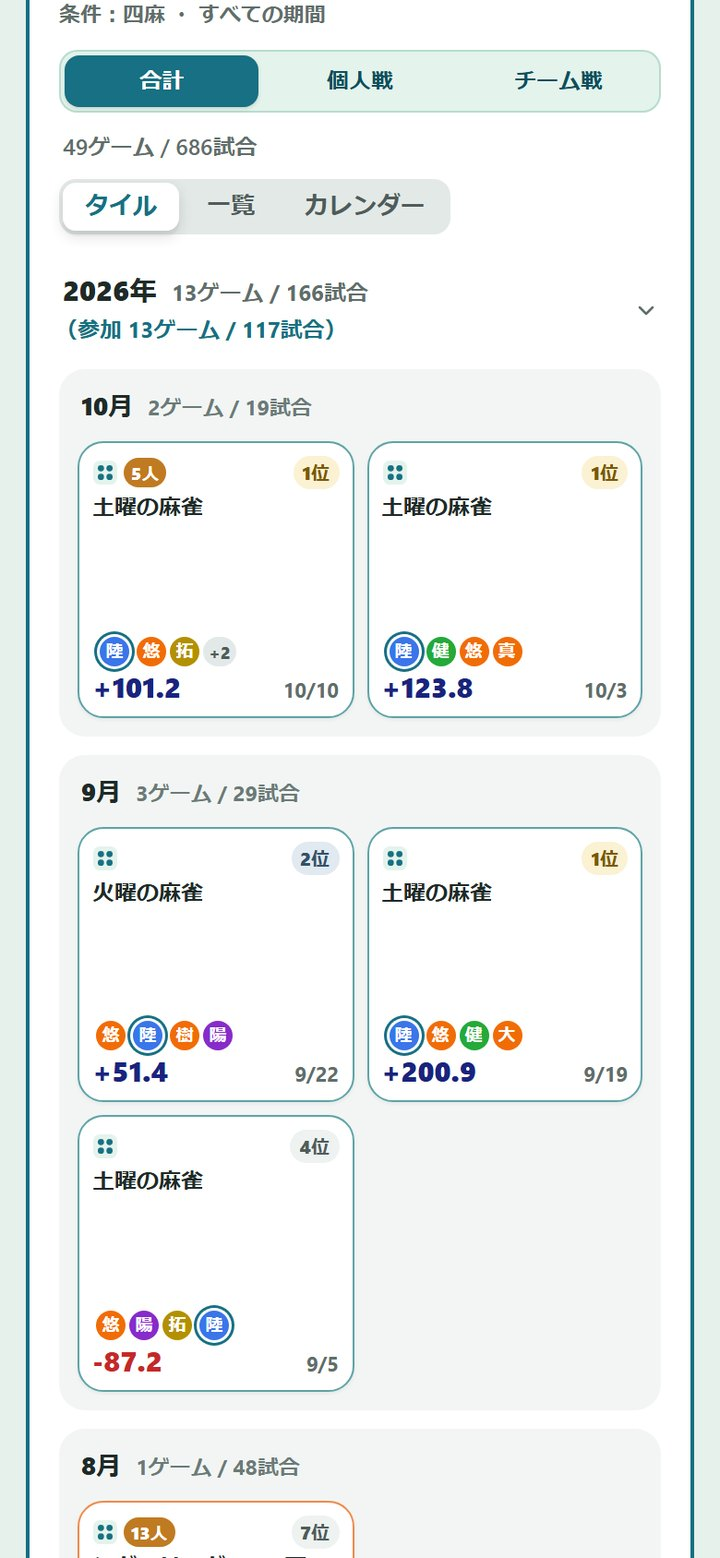
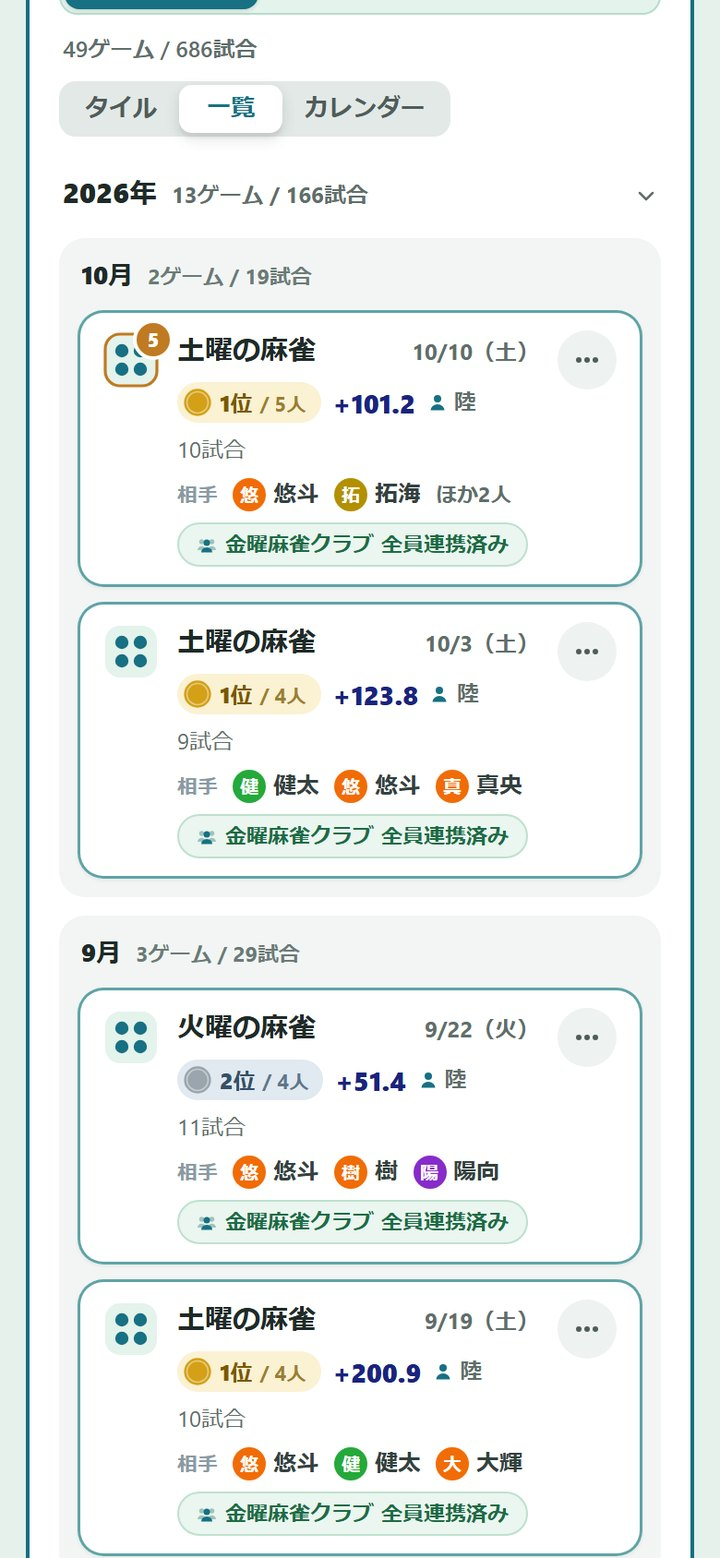
LP：「その日の順位とスコアが、ずらり」をマイページの一覧の画面に戻す

diff --git a/index.html b/index.html
@@ -2602,7 +2602,7 @@ height="0" width="0" style="display:none;visibility:hidden"></iframe></noscript>
       <h2>打つほど、記録が楽しくなる。</h2>
       <div class="lp-demo" id="lp-demo">
         <div class="lp-demo-tabs" role="tablist" aria-label="見たい画面を選ぶ"><button type="button" role="tab" class="lp-tab on" aria-selected="true" aria-controls="lp-scr-mypage" onclick="lpDemo(0, true)"><b>自分の成績</b><span class="lp-tab-t">グラフを押すと、その月の試合</span><span class="lp-tab-d">自分の通算スコアの推移。月を押すと、その月のゲームの順位とスコアが下に並びます。</span></button><button type="button" role="tab" class="lp-tab" aria-selected="false" aria-controls="lp-scr-grid" onclick="lpDemo(1, true)"><b>成績表</b><span class="lp-tab-t">全員の成績を、1枚の表で</span><span class="lp-tab-d">試合数・着順の回数・トップ率・ラス回避・通算スコアまで、メンバーを横に並べて。</span></button><button type="button" role="tab" class="lp-tab" aria-selected="false" aria-controls="lp-scr-rank" onclick="lpDemo(2, true)"><b>通算順位</b><span class="lp-tab-t">仲間の通算順位が、表彰台で</span><span class="lp-tab-d">ゲームを集めるだけで、通算スコア・平均着順の順位が自動で決まります。</span></button><button type="button" role="tab" class="lp-tab" aria-selected="false" aria-controls="lp-scr-games" onclick="lpDemo(3, true)"><b>過去の試合</b><span class="lp-tab-t">その日の順位とスコアが、ずらり</span><span class="lp-tab-d">打った日ごとに、自分の順位とスコアが並びます。押せばその日の結果が開きます。</span></button><button type="button" role="tab" class="lp-tab" aria-selected="false" aria-controls="lp-scr-h2h" onclick="lpDemo(4, true)"><b>総当たり</b><span class="lp-tab-t">あの人には勝ち越してる？</span><span class="lp-tab-d">同じ試合で上だった回数を、メンバーどうしの総当たりで。相性が数字で出ます。</span></button><button type="button" role="tab" class="lp-tab" aria-selected="false" aria-controls="lp-scr-member" onclick="lpDemo(5, true)"><b>メンバーの成績</b><span class="lp-tab-t">メンバーごとの成績と推移</span><span class="lp-tab-d">平均着順・トップ率・ラス回避と、通算スコアの上がり下がりがグラフで。</span></button></div>
-        <div class="lp-phone" aria-label="スマホの画面"><div class="lp-phone-in"><span class="lp-phone-bar" style="background:#E6F1EB" aria-hidden="true"><span class="lp-phone-island"></span></span><div class="lp-phone-screen"><img id="lp-scr-mypage" class="lp-scr on" role="tabpanel" src="/assets/screens/lp-mypage.jpg" width="720" height="1558" alt="マイページの成績。通算スコアの推移のグラフで月を選ぶと、その月のゲームごとの順位とスコアが並ぶ" loading="lazy" data-href="/news/mypage-stats.html" data-title="グラフを押すと、その月の試合" data-desc="自分の通算スコアの推移。月を押すと、その月のゲームの順位とスコアが下に並びます。" data-top="#E6F1EB"><img id="lp-scr-grid" class="lp-scr" role="tabpanel" src="/assets/screens/lp-grid.jpg" width="720" height="1558" alt="仲間ページの成績表。メンバーごとのゲーム数・試合数・平均着順・着順の回数・トップ率・通算スコア" loading="lazy" data-href="/news/nakama-page.html" data-title="全員の成績を、1枚の表で" data-desc="試合数・着順の回数・トップ率・ラス回避・通算スコアまで、メンバーを横に並べて。" data-top="#FAF6EB"><img id="lp-scr-rank" class="lp-scr" role="tabpanel" src="/assets/screens/lp-rank.jpg" width="720" height="1558" alt="仲間ページの通算順位の画面。表彰台に1位から3位、その下に4位以下のスコアが並ぶ" loading="lazy" data-href="/news/nakama-page.html" data-title="仲間の通算順位が、表彰台で" data-desc="ゲームを集めるだけで、通算スコア・平均着順の順位が自動で決まります。" data-top="#FAF6EB"><img id="lp-scr-games" class="lp-scr" role="tabpanel" src="/assets/screens/lp-games.jpg" width="720" height="1558" alt="マイページの過去の試合。月ごとに、ゲームごとの自分の順位とスコアが並ぶ" loading="lazy" data-href="/news/mypage-stats.html" data-title="その日の順位とスコアが、ずらり" data-desc="打った日ごとに、自分の順位とスコアが並びます。押せばその日の結果が開きます。" data-top="#FFFFFF"><img id="lp-scr-h2h" class="lp-scr" role="tabpanel" src="/assets/screens/lp-h2h.jpg" width="720" height="1558" alt="総当たり表。メンバーどうしの直接対決の勝ち越し・負け越し" loading="lazy" data-href="/news/nakama-page.html#h2h" data-title="あの人には勝ち越してる？" data-desc="同じ試合で上だった回数を、メンバーどうしの総当たりで。相性が数字で出ます。" data-top="#FAF6EB"><img id="lp-scr-member" class="lp-scr" role="tabpanel" src="/assets/screens/lp-member.jpg" width="720" height="1558" alt="メンバーの成績の画面。平均着順・通算スコア・トップ率と、通算スコアの推移のグラフ" loading="lazy" data-href="/news/nakama-page.html" data-title="メンバーごとの成績と推移" data-desc="平均着順・トップ率・ラス回避と、通算スコアの上がり下がりがグラフで。" data-top="#7F7F7F"></div></div></div>
+        <div class="lp-phone" aria-label="スマホの画面"><div class="lp-phone-in"><span class="lp-phone-bar" style="background:#E6F1EB" aria-hidden="true"><span class="lp-phone-island"></span></span><div class="lp-phone-screen"><img id="lp-scr-mypage" class="lp-scr on" role="tabpanel" src="/assets/screens/lp-mypage.jpg" width="720" height="1558" alt="マイページの成績。通算スコアの推移のグラフで月を選ぶと、その月のゲームごとの順位とスコアが並ぶ" loading="lazy" data-href="/news/mypage-stats.html" data-title="グラフを押すと、その月の試合" data-desc="自分の通算スコアの推移。月を押すと、その月のゲームの順位とスコアが下に並びます。" data-top="#E6F1EB"><img id="lp-scr-grid" class="lp-scr" role="tabpanel" src="/assets/screens/lp-grid.jpg" width="720" height="1558" alt="仲間ページの成績表。メンバーごとのゲーム数・試合数・平均着順・着順の回数・トップ率・通算スコア" loading="lazy" data-href="/news/nakama-page.html" data-title="全員の成績を、1枚の表で" data-desc="試合数・着順の回数・トップ率・ラス回避・通算スコアまで、メンバーを横に並べて。" data-top="#FAF6EB"><img id="lp-scr-rank" class="lp-scr" role="tabpanel" src="/assets/screens/lp-rank.jpg" width="720" height="1558" alt="仲間ページの通算順位の画面。表彰台に1位から3位、その下に4位以下のスコアが並ぶ" loading="lazy" data-href="/news/nakama-page.html" data-title="仲間の通算順位が、表彰台で" data-desc="ゲームを集めるだけで、通算スコア・平均着順の順位が自動で決まります。" data-top="#FAF6EB"><img id="lp-scr-games" class="lp-scr" role="tabpanel" src="/assets/screens/lp-games.jpg" width="720" height="1558" alt="マイページの過去の試合の一覧。ゲームごとに自分の順位とスコア、着順の回数、相手が並ぶ" loading="lazy" data-href="/news/mypage-stats.html" data-title="その日の順位とスコアが、ずらり" data-desc="打った日ごとに、自分の順位とスコアが並びます。押せばその日の結果が開きます。" data-top="#E4F3EC"><img id="lp-scr-h2h" class="lp-scr" role="tabpanel" src="/assets/screens/lp-h2h.jpg" width="720" height="1558" alt="総当たり表。メンバーどうしの直接対決の勝ち越し・負け越し" loading="lazy" data-href="/news/nakama-page.html#h2h" data-title="あの人には勝ち越してる？" data-desc="同じ試合で上だった回数を、メンバーどうしの総当たりで。相性が数字で出ます。" data-top="#FAF6EB"><img id="lp-scr-member" class="lp-scr" role="tabpanel" src="/assets/screens/lp-member.jpg" width="720" height="1558" alt="メンバーの成績の画面。平均着順・通算スコア・トップ率と、通算スコアの推移のグラフ" loading="lazy" data-href="/news/nakama-page.html" data-title="メンバーごとの成績と推移" data-desc="平均着順・トップ率・ラス回避と、通算スコアの上がり下がりがグラフで。" data-top="#7F7F7F"></div></div></div>
         <div class="lp-demo-cap"><b id="lp-demo-t">グラフを押すと、その月の試合</b><span id="lp-demo-d">自分の通算スコアの推移。月を押すと、その月のゲームの順位とスコアが下に並びます。</span><a id="lp-demo-a" href="/news/mypage-stats.html">くわしく見る ›</a></div>
       </div>
     </div>

diff --git a/tools/shoot_lp_screens_plan.py b/tools/shoot_lp_screens_plan.py
@@ -49,5 +49,5 @@ pg.wait_for_timeout(500)
 path = os.path.join(OUT, "lp-mypage.png"); pg.screenshot(path=path); shots.append(("mypage", path, []))
 # 過去の試合（マイページの一覧＝ゲームごとに自分の順位・スコア・着順の回数が出る。ユーザーの依頼「本当の画面のようにその時の成績を」）
 pg.evaluate("document.querySelectorAll('.sp-pop').forEach(p => p.remove())")
-pg.evaluate("setMpPane('hist'); histView = 'tile'; renderHistoryList()"); pg.wait_for_timeout(1200)
-vshot("games", "#view-history .mo-sec", 200)
+pg.evaluate("setMpPane('hist'); histView = 'new'; renderHistoryList()"); pg.wait_for_timeout(1200)
+vshot("games", "#view-history .gm-list", 168)

diff --git a/docs/lp-spec.md b/docs/lp-spec.md
@@ -16,7 +16,7 @@
 3. 3ステップ「必要なものはスマホのみ。」（薄青）
 4. 比較表「手書きのスコア表は、もう卒業。」（薄緑）
 5. 特徴カルーセル「スマホ1台で、ここまでできる。」（白）
-5b. **本当の記録の画面「打つほど、記録が楽しくなる。」（薄青・2026-10-26 第2版。旧「実際の画面で見る。」）**: ユーザーの仲間ページ（しぐまちゅーたーず）の**実際の数字**（人の名前とグループ名は置きかえ）で撮った**スマホ1画面（390×844）のスクショをそのまま**6枚。順番は **自分の成績（いちばん左）**・成績表（2番目）・通算順位・過去の試合（マイページのタイル）・総当たり・メンバーの成績。ゲーム名は撮るときだけ「土曜の麻雀」のような短い名前に。**切り抜かない**（切り抜くと周りに色の縁が残って不自然、とユーザーの指摘）。どの画面も中身で埋まる位置までスクロールしてから撮る。
+5b. **本当の記録の画面「打つほど、記録が楽しくなる。」（薄青・2026-10-26 第2版。旧「実際の画面で見る。」）**: ユーザーの仲間ページ（しぐまちゅーたーず）の**実際の数字**（人の名前とグループ名は置きかえ）で撮った**スマホ1画面（390×844）のスクショをそのまま**6枚。順番は **自分の成績（いちばん左）**・成績表（2番目）・通算順位・過去の試合（マイページの一覧＝ゲームごとの自分の順位とスコア）・総当たり・メンバーの成績。ゲーム名は撮るときだけ「土曜の麻雀」のような短い名前に。**切り抜かない**（切り抜くと周りに色の縁が残って不自然、とユーザーの指摘）。どの画面も中身で埋まる位置までスクロールしてから撮る。
    見せ方は**スマホ1台の枠の中でタブで切り替える**（`.lp-demo`。カードを並べると縮尺の違いが目立つため）。枠の上の帯は、その画面の上端の色（`data-top`）。押されるまでは5秒ごとに次へ（画面に見えているときだけ・動きを減らす設定なら止める）。PCは左にスマホ・右に説明つきのタブ。
    撮り方は `python tools/shoot_lp_screens.py <名前を置きかえたデータ.json>`（スタブ・本番に触れない。データはリポジトリに入れない。段取りは tools/shoot_lp_screens_plan.py の vshot＝画面1枚）
 6. クロージング「麻雀のスコア記録は、まじゃすこで。」（薄緑）→ 読みもの「もっと詳しく」→ **お知らせ（新しい3本）** → lp_bottom広告枠。読みものとお知らせは、ブログの一覧と同じく左に記事の絵（assets/thumbs/・.read-list.rl-cards）。新しい記事を載せるときは make_thumbs.py の絵も作る
